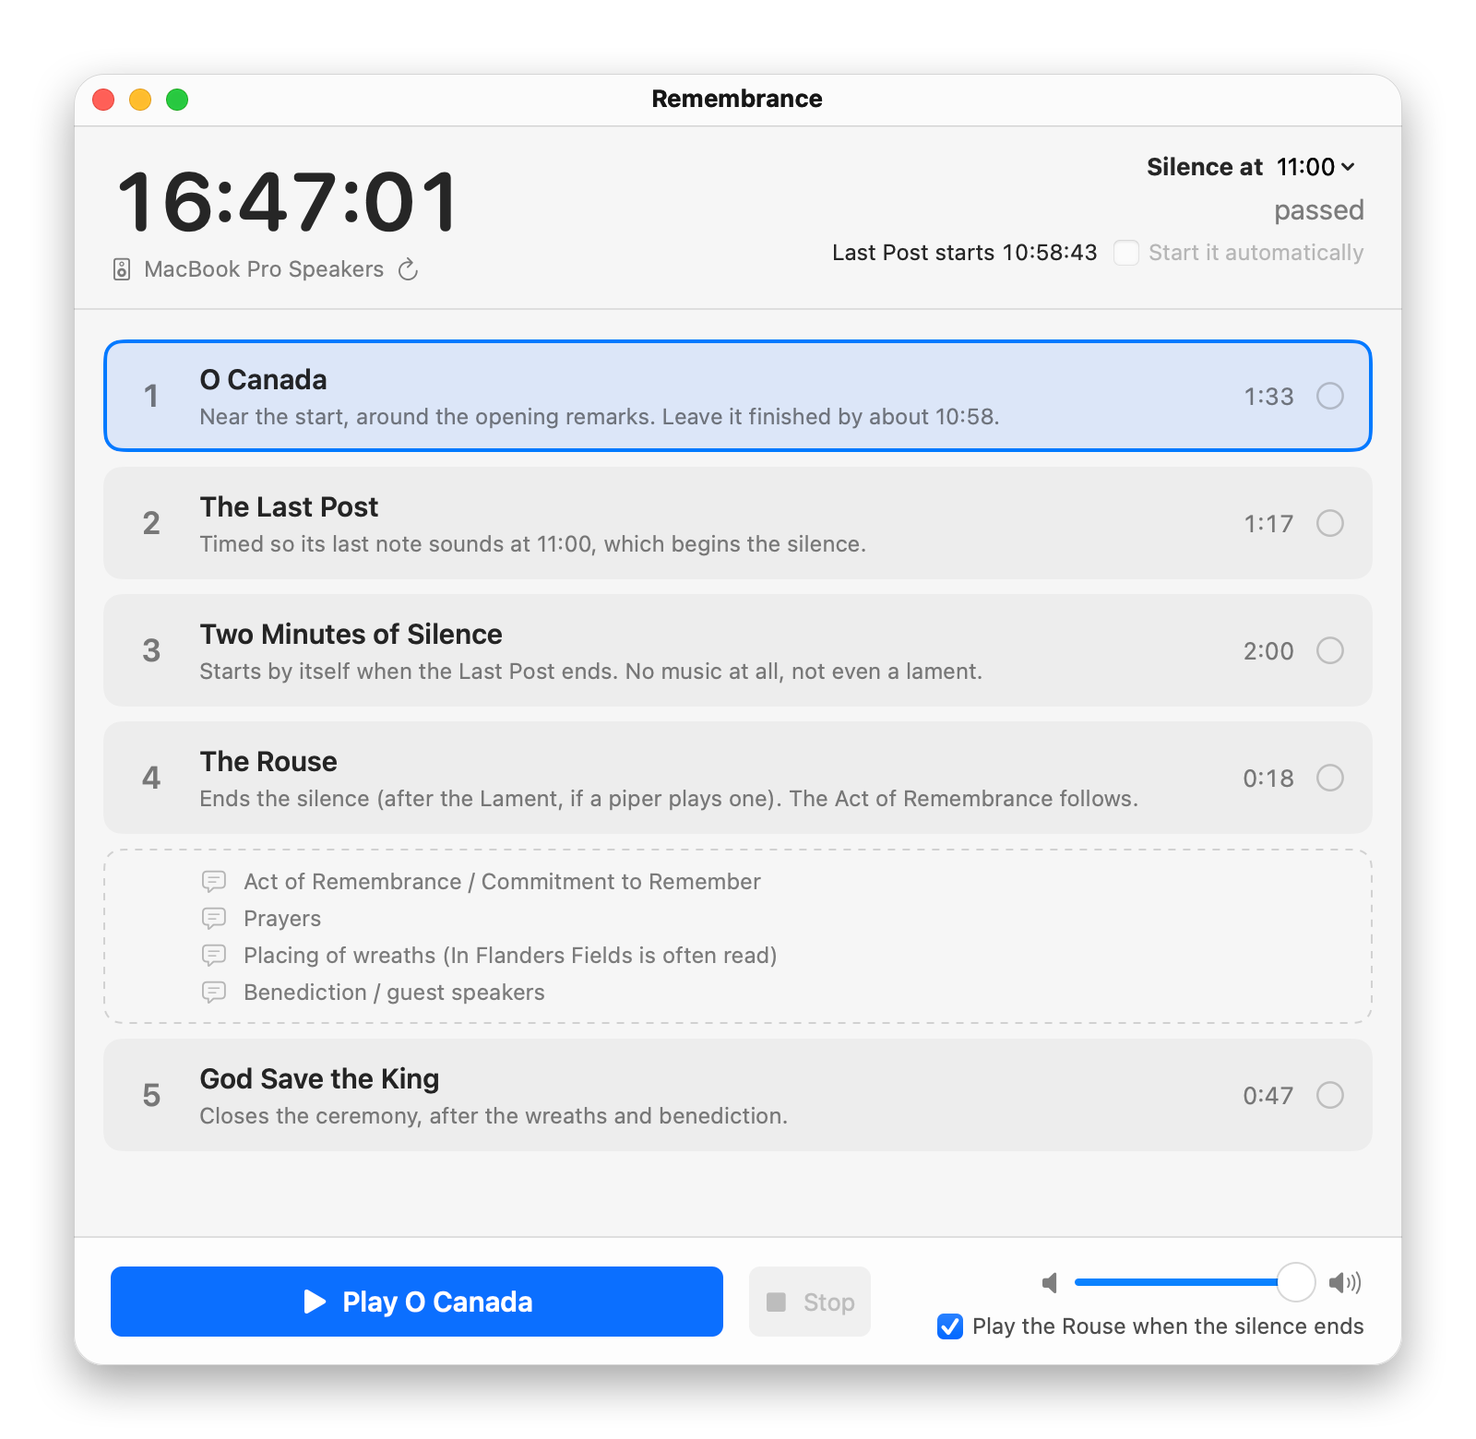
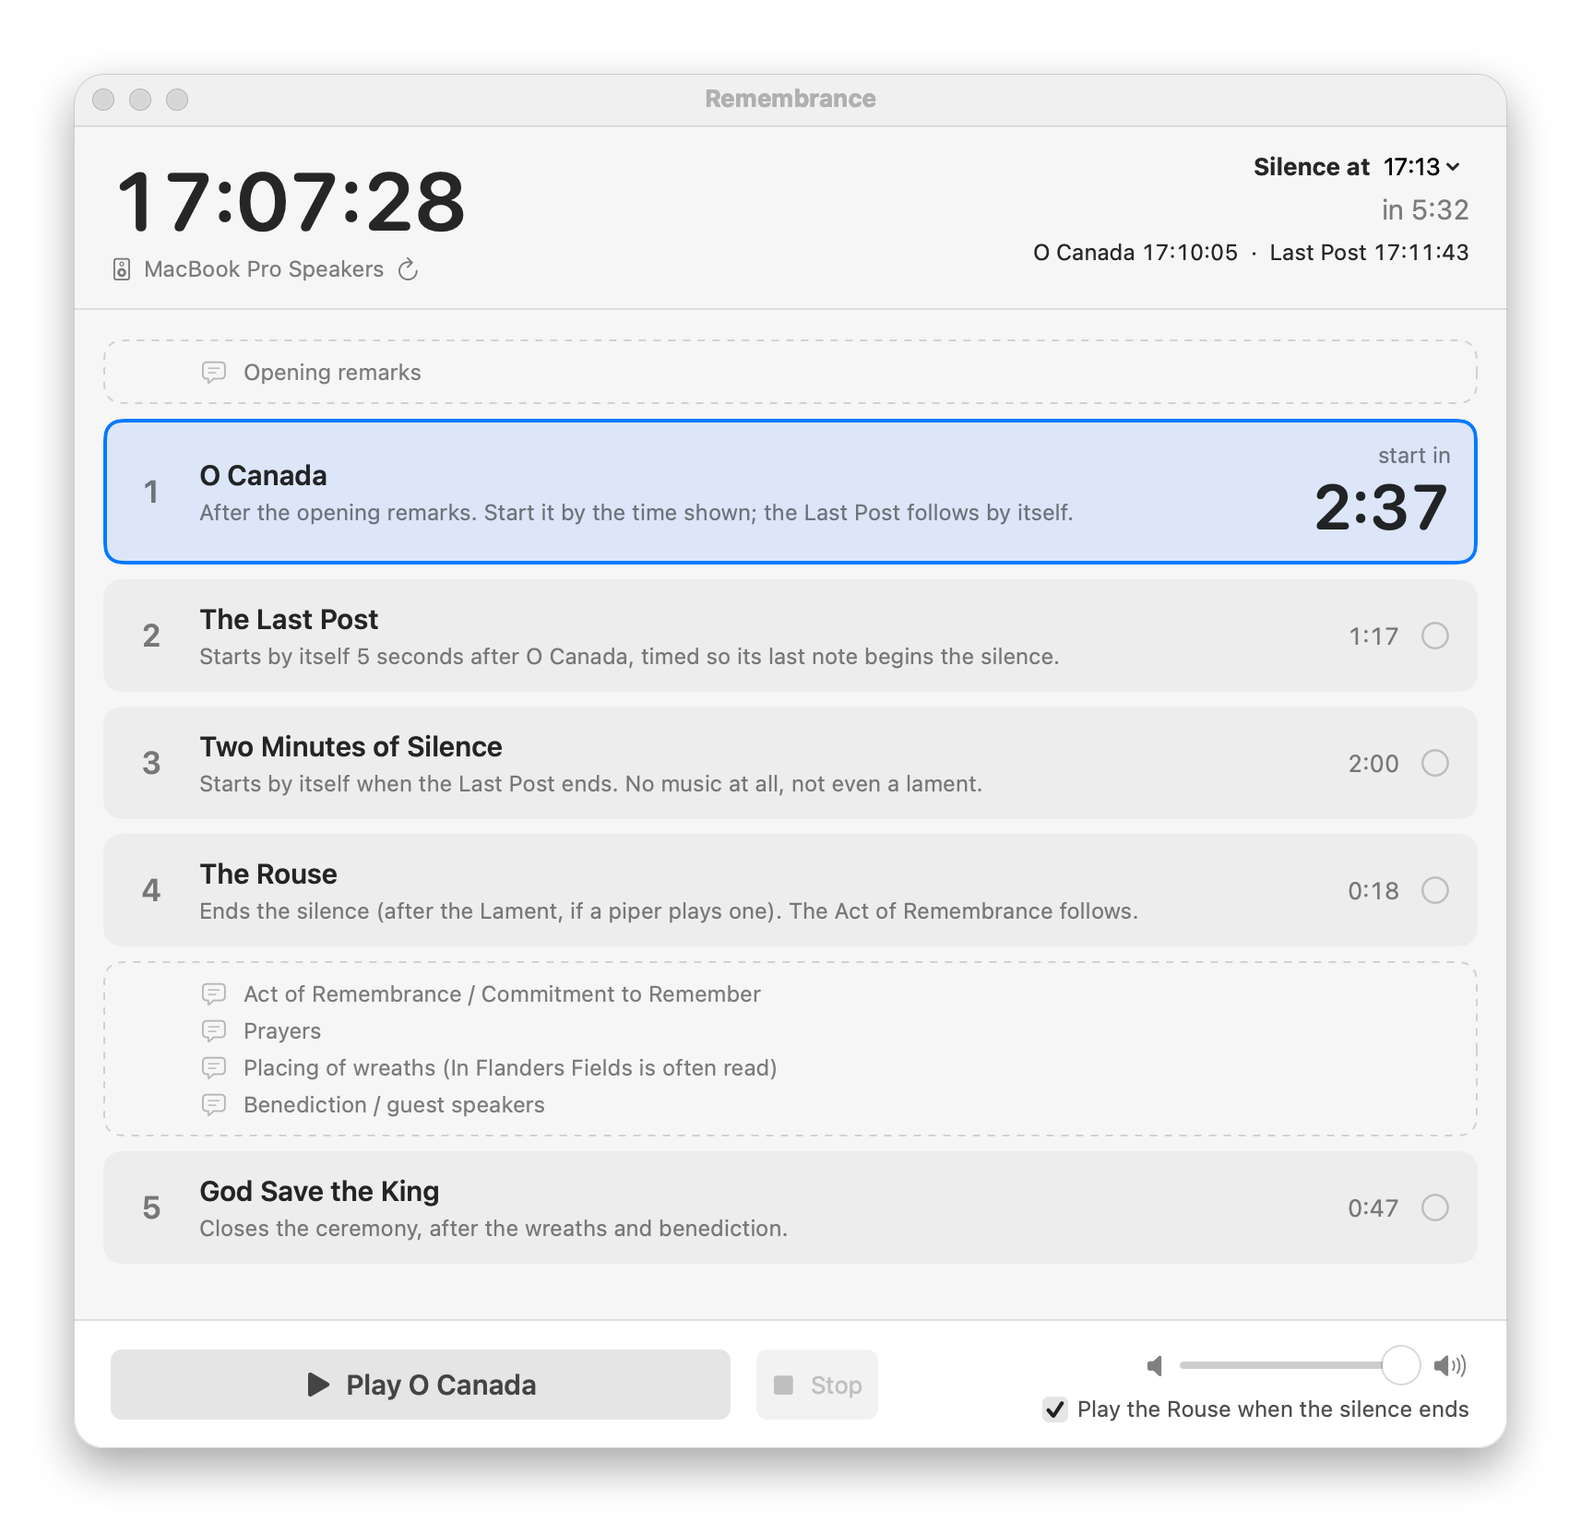
Count down to O Canada; Last Post follows it by itself
O Canada shows a countdown to the latest it can start. When it ends, the
Last Post starts 5 seconds later, or at its scheduled time if O Canada
started early, so its last note still sounds at 11:00. Space starts a
waiting Last Post now and Esc cancels it. Replaces the 'Start it
automatically' checkbox. Adds an Opening remarks section before O Canada
and corrects the documented timings for the audible lengths.

diff --git a/Sources/Remembrance/ServiceController.swift b/Sources/Remembrance/ServiceController.swift
@@ -3,14 +3,20 @@ import AppKit
 import Combine
 import Foundation
 
-/// Runs the service: plays cues, times the silence, and can start the Last Post by itself so that
-/// it ends exactly at the target time (11:00 by default).
+/// Runs the service: plays cues and times the silence. After O Canada the Last Post follows by
+/// itself, at least `gap` seconds later and timed to end exactly at the target time (11:00).
 @MainActor
 final class ServiceController: ObservableObject {
     let cues = Cue.service
+    /// Pause between O Canada ending and the Last Post starting.
+    static let gap: TimeInterval = 5
+
+    /// A cue that will start by itself at `at` (the Last Post after O Canada).
+    struct Pending: Equatable { let index: Int; let at: Date }
 
     @Published var selected = 0
     @Published private(set) var playing: Int?          // index of the cue sounding / counting now
+    @Published private(set) var pending: Pending?
     @Published private(set) var elapsed: TimeInterval = 0
     @Published private(set) var done: Set<String> = []
     @Published private(set) var now = Date()
@@ -25,8 +31,6 @@ final class ServiceController: ObservableObject {
             if let p = currentPlayer, !fading { p.volume = Float(volume) }
         }
     }
-    /// Start the Last Post automatically so that it ends at `targetTime`.
-    @Published var armed = false
     /// Sound the Rouse as soon as the silence ends (off: the operator presses Play).
     @Published var autoRouse = UserDefaults.standard.bool(forKey: "autoRouse") {
         didSet { UserDefaults.standard.set(autoRouse, forKey: "autoRouse") }
@@ -113,6 +117,14 @@ final class ServiceController: ObservableObject {
         durations[lastPost.id].map { targetDate.addingTimeInterval(-$0) }
     }
 
+    var oCanada: Cue { cues.first { $0.id == "o-canada" }! }
+
+    /// The latest O Canada can start for the Last Post to follow after the gap and end on time.
+    var oCanadaStart: Date? {
+        guard let lp = lastPostStart, let d = durations[oCanada.id] else { return nil }
+        return lp.addingTimeInterval(-Self.gap - d)
+    }
+
     var silenceDuration: TimeInterval {
         if case .silence(let s) = silenceCue.kind { return s }
         return 120
@@ -130,19 +142,22 @@ final class ServiceController: ObservableObject {
 
     // MARK: Transport
 
-    var isBusy: Bool { playing != nil }
+    /// Something is sounding, counting, or about to start by itself.
+    var isBusy: Bool { playing != nil || pending != nil }
 
-    /// Plays the selected cue. Does nothing while another cue is sounding, so a double press
-    /// can never start something over the top.
+    /// Plays the selected cue, or starts a waiting cue now. Does nothing while a cue is sounding,
+    /// so a double press can never start something over the top.
     func go() {
+        if let p = pending { start(p.index); return }
         guard !isBusy, cues.indices.contains(selected) else { return }
         start(selected)
     }
 
-    /// `offset` skips into the recording (used when the timed Last Post fires a little late,
-    /// so it still ends on time).
+    /// `offset` skips into the recording (used when the timer fires a little late, so the
+    /// Last Post still ends on time).
     func start(_ index: Int, offset: TimeInterval = 0) {
-        guard !isBusy else { return }
+        guard playing == nil else { return }
+        pending = nil
         let cue = cues[index]
         selected = index
         switch cue.kind {
@@ -159,11 +174,12 @@ final class ServiceController: ObservableObject {
             elapsed = p.currentTime
             p.play()
         }
-        if cue.id == lastPost.id { armed = false }
     }
 
     /// Fades the current recording out over `seconds` (0 = cut), or ends the silence early.
+    /// Also cancels a cue waiting to start by itself.
     func stop(fade seconds: TimeInterval = 1.5) {
+        if pending != nil, playing == nil { pending = nil; return }
         guard let index = playing else { return }
         if cues[index].isAudio, let p = currentPlayer {
             if seconds > 0, p.isPlaying, !fading {
@@ -201,8 +217,12 @@ final class ServiceController: ObservableObject {
         let next = index + 1
         if advance, cues.indices.contains(next) {
             selected = next
-            // The Last Post's final note begins the silence.
-            if cue.id == lastPost.id, cues[next].id == silenceCue.id {
+            // The Last Post follows O Canada after the gap, or at its scheduled time if that's
+            // later, so its last note still sounds at the target time.
+            if cue.id == oCanada.id, cues[next].id == lastPost.id {
+                let soonest = Date().addingTimeInterval(Self.gap)
+                pending = Pending(index: next, at: max(soonest, lastPostStart ?? soonest))
+            } else if cue.id == lastPost.id, cues[next].id == silenceCue.id {
                 start(next)
             } else if cue.id == silenceCue.id, cues[next].id == "rouse", autoRouse {
                 start(next)
@@ -213,10 +233,10 @@ final class ServiceController: ObservableObject {
     }
 
     func reset() {
+        pending = nil
         if isBusy { stop(fade: 0) }
         done = []
         selected = 0
-        armed = false
     }
 
     func select(_ delta: Int) {
@@ -235,15 +255,10 @@ final class ServiceController: ObservableObject {
                 elapsed = silenceDuration - remaining
                 if remaining <= 0 { finish(index, advance: true) }
             }
-        } else if armed, let due = lastPostStart, date >= due {
-            // Fire up to 10 s late, skipping in by the delay so the last note still lands on time;
-            // any later and it waits for the operator.
-            let late = date.timeIntervalSince(due)
-            if late < 10, let i = cues.firstIndex(of: lastPost) {
-                start(i, offset: late > 0.25 ? late : 0)
-            } else {
-                armed = false
-            }
+        } else if let p = pending, date >= p.at {
+            // If the timer fires late (it shouldn't), skip in by the delay to keep the end on time.
+            let late = date.timeIntervalSince(p.at)
+            start(p.index, offset: late > 0.25 && late < 10 ? late : 0)
         }
     }
 

diff --git a/Sources/Remembrance/ContentView.swift b/Sources/Remembrance/ContentView.swift
@@ -13,8 +13,9 @@ struct ContentView: View {
             ScrollView {
                 VStack(spacing: 8) {
                     ForEach(Array(service.cues.enumerated()), id: \.element.id) { index, cue in
+                        if cue.id == "o-canada" { SpokenSection(items: SpokenSection.opening) }
                         CueRow(index: index, cue: cue)
-                        if cue.id == "rouse" { SpokenSection() }
+                        if cue.id == "rouse" { SpokenSection(items: SpokenSection.afterRouse) }
                     }
                 }
                 .padding(16)
@@ -58,20 +59,15 @@ private struct Header: View {
                 Text(countdown)
                     .font(.title3.monospacedDigit())
                     .foregroundStyle(.secondary)
-                if let start = service.lastPostStart {
-                    HStack(spacing: 8) {
-                        Text("Last Post starts \(start.formatted(.dateTime.hour().minute().second()))")
-                            .monospacedDigit()
-                        Toggle("Start it automatically", isOn: $service.armed)
-                            .toggleStyle(.checkbox)
-                            .disabled(start < service.now || service.isBusy)
-                            .help("Plays the Last Post at exactly this time so its last note sounds at the silence.")
-                    }
-                    .font(.callout)
+                if let oc = service.oCanadaStart, let lp = service.lastPostStart {
+                    Text("O Canada \(time(oc))  ·  Last Post \(time(lp))")
+                        .font(.callout.monospacedDigit())
                 }
             }
         }
     }
+
+    private func time(_ d: Date) -> String { d.formatted(.dateTime.hour().minute().second()) }
 
     private var countdown: String {
         let diff = service.targetDate.timeIntervalSince(service.now)
@@ -144,8 +140,27 @@ private struct CueRow: View {
         .contextMenu { if cue.isAudio { fileMenu } }
     }
 
+    var pendingHere: Bool { service.pending?.index == index && service.playing == nil }
+
     @ViewBuilder private var trailing: some View {
-        if isActive, case .silence = cue.kind, let remaining = service.silenceRemaining {
+        if pendingHere, let at = service.pending?.at {
+            VStack(alignment: .trailing, spacing: 0) {
+                Text("starts in").font(.callout).foregroundStyle(.secondary)
+                Text(clock(max(0, at.timeIntervalSince(service.now))))
+                    .font(.system(size: 34, weight: .semibold, design: .rounded).monospacedDigit())
+            }
+        } else if cue.id == "o-canada", !isActive, !isDone, let start = service.oCanadaStart,
+                  start.timeIntervalSince(service.now) > -60 {
+            // Countdown to the latest moment O Canada can start (shown until a minute past it).
+            let diff = start.timeIntervalSince(service.now)
+            VStack(alignment: .trailing, spacing: 0) {
+                Text(diff > 0 ? "start in" : "start now").font(.callout)
+                    .foregroundStyle(diff > 0 ? Color.secondary : Color.orange)
+                Text(diff > 0 ? clock(diff) : "−" + clock(-diff))
+                    .font(.system(size: 34, weight: .semibold, design: .rounded).monospacedDigit())
+                    .foregroundStyle(diff > 0 ? (diff <= 30 ? Color.orange : Color.primary) : Color.orange)
+            }
+        } else if isActive, case .silence = cue.kind, let remaining = service.silenceRemaining {
             Text(clock(remaining))
                 .font(.system(size: 34, weight: .semibold, design: .rounded).monospacedDigit())
         } else if isActive, let total = service.duration(of: cue) {
@@ -194,16 +209,19 @@ private struct CueRow: View {
 // MARK: - Spoken part of the service (not a cue: shown for orientation, never selected)
 
 private struct SpokenSection: View {
-    static let items = [
+    static let opening = ["Opening remarks"]
+    static let afterRouse = [
         "Act of Remembrance / Commitment to Remember",
         "Prayers",
         "Placing of wreaths (In Flanders Fields is often read)",
         "Benediction / guest speakers",
     ]
 
+    let items: [String]
+
     var body: some View {
         VStack(alignment: .leading, spacing: 5) {
-            ForEach(Self.items, id: \.self) { item in
+            ForEach(items, id: \.self) { item in
                 HStack(alignment: .firstTextBaseline, spacing: 8) {
                     Image(systemName: "text.bubble").font(.callout).foregroundStyle(.tertiary)
                     Text(item).font(.callout).foregroundStyle(.secondary)
@@ -226,7 +244,7 @@ private struct Transport: View {
     var body: some View {
         HStack(spacing: 14) {
             Button(action: service.go) {
-                Label(playTitle, systemImage: service.isBusy ? "waveform" : "play.fill")
+                Label(playTitle, systemImage: service.playing != nil ? "waveform" : "play.fill")
                     .labelStyle(.titleAndIcon)
                     .font(.title3.weight(.semibold))
                     .lineLimit(1)
@@ -234,7 +252,7 @@ private struct Transport: View {
             }
             .buttonStyle(.borderedProminent)
             .controlSize(.large)
-            .disabled(service.isBusy)
+            .disabled(service.playing != nil)
 
             Button { service.stop() } label: {
                 Label(stopTitle, systemImage: "stop.fill")
@@ -267,10 +285,12 @@ private struct Transport: View {
 
     private var playTitle: String {
         if let i = service.playing { return service.cues[i].title }
+        if let p = service.pending { return "Start \(service.cues[p.index].title) Now" }
         return "Play \(service.cues[service.selected].title)"
     }
 
     private var stopTitle: String {
+        if service.playing == nil, service.pending != nil { return "Cancel" }
         if let i = service.playing, !service.cues[i].isAudio { return "End Silence" }
         return "Stop"
     }

diff --git a/Sources/Remembrance/RemembranceApp.swift b/Sources/Remembrance/RemembranceApp.swift
@@ -12,14 +12,14 @@ struct RemembranceApp: App {
                 .environmentObject(service)
                 .onAppear { appDelegate.service = service }
         }
-        .defaultSize(width: 720, height: 700)
+        .defaultSize(width: 720, height: 800)
         .commands {
             CommandGroup(replacing: .newItem) {}
             CommandMenu("Service") {
-                Button("Play Selected") { service.go() }
+                Button(service.pending != nil ? "Start Now" : "Play Selected") { service.go() }
                     .keyboardShortcut(.space, modifiers: [])
-                    .disabled(service.isBusy)
-                Button("Fade Out") { service.stop() }
+                    .disabled(service.playing != nil)
+                Button(service.pending != nil && service.playing == nil ? "Cancel" : "Fade Out") { service.stop() }
                     .keyboardShortcut(.escape, modifiers: [])
                     .disabled(!service.isBusy)
                 Button("Stop at Once") { service.stop(fade: 0) }
@@ -43,8 +43,7 @@ final class AppDelegate: NSObject, NSApplicationDelegate {
 
     func applicationShouldTerminateAfterLastWindowClosed(_ sender: NSApplication) -> Bool { true }
 
-    /// REMEMBRANCE_PLAY=<cue id> starts that cue at launch, REMEMBRANCE_ARM=1 arms the timed
-    /// Last Post (for testing the sequence).
+    /// REMEMBRANCE_PLAY=<cue id> starts that cue at launch (for testing the sequence).
     /// REMEMBRANCE_SNAPSHOT=<prefix> saves the window to <prefix>-<seconds>.png at each of
     /// REMEMBRANCE_SNAPSHOT_AT (default "2") seconds after launch, for checking the layout
     /// without screen-recording permission.
@@ -56,9 +55,6 @@ final class AppDelegate: NSObject, NSApplicationDelegate {
                 guard let s = self?.service, let i = s.cues.firstIndex(where: { $0.id == id }) else { return }
                 s.start(i)
             }
-        }
-        if env["REMEMBRANCE_ARM"] == "1" {   // arm the timed Last Post at launch (testing)
-            DispatchQueue.main.asyncAfter(deadline: .now() + 1) { [weak self] in self?.service?.armed = true }
         }
         guard let prefix = env["REMEMBRANCE_SNAPSHOT"] else { return }
         for t in (env["REMEMBRANCE_SNAPSHOT_AT"] ?? "2").split(separator: ",").compactMap({ Double($0) }) {

diff --git a/Sources/Remembrance/Cue.swift b/Sources/Remembrance/Cue.swift
@@ -19,9 +19,9 @@ struct Cue: Identifiable, Equatable {
     /// the CAF / Veterans Affairs Canada guidance (see docs/ORDER-OF-SERVICE.md).
     static let service: [Cue] = [
         Cue(id: "o-canada", title: "O Canada", kind: .audio(resource: "o-canada.mp3"),
-            note: "Near the start, around the opening remarks. Leave it finished by about 10:58."),
+            note: "After the opening remarks. Start it by the time shown; the Last Post follows by itself."),
         Cue(id: "last-post", title: "The Last Post", kind: .audio(resource: "last-post.wav"),
-            note: "Timed so its last note sounds at 11:00, which begins the silence."),
+            note: "Starts by itself 5 seconds after O Canada, timed so its last note begins the silence."),
         Cue(id: "silence", title: "Two Minutes of Silence", kind: .silence(seconds: 120),
             note: "Starts by itself when the Last Post ends. No music at all, not even a lament."),
         Cue(id: "rouse", title: "The Rouse", kind: .audio(resource: "rouse.wav"),

diff --git a/docs/ORDER-OF-SERVICE.md b/docs/ORDER-OF-SERVICE.md
@@ -9,8 +9,9 @@ silence at 11:00** (VAC: "the _Last Post_ is finished at exactly 11 am, marking 
 the two minutes of silent reflection"). The Last Post, silence and Rouse "take place one after the
 other, without interruption", so the silence runs 11:00–11:02.
 
-With the official CAF recording (1:24), the Last Post starts at **10:58:36**. The app shows this time
-and can start it by itself ("Start it automatically").
+The official CAF Last Post sounds for 1:17 (the file runs 1:24, but the last 7 seconds are quiet room
+echo), so it starts at **10:58:43**. O Canada (1:33 of sound) plus a 5-second pause before it means
+O Canada must start by **10:57:05**. The app counts down to that, then starts the Last Post by itself.
 
 ## Recommended order (Royal Canadian Legion)
 
@@ -18,23 +19,23 @@ and can start it by itself ("Start it automatically").
 |---|------|-------|------|
 | 1 | Land acknowledgment | — | before 11:00 |
 | 2 | Opening remarks | — | |
-| 3 | **O Canada** | 1:36 | e.g. ~10:56, finishing by 10:58:30 |
-| 4 | **Last Post** | 1:24 | **10:58:36 → 11:00:00** |
+| 3 | **O Canada** | 1:33 | start by **10:57:05** |
+| 4 | **Last Post** | 1:17 | **10:58:43 → 11:00:00** (5 s after O Canada) |
 | 5 | **Two minutes of silence** | 2:00 | **11:00:00 → 11:02:00** |
 | 6 | Lament (piper, optional) | — | |
-| 7 | **Rouse** | 0:23 | ~11:02 |
+| 7 | **Rouse** | 0:18 | ~11:02 |
 | 8 | Act of Remembrance / Commitment to Remember | — | |
 | 9 | Prayers | — | |
 | 10 | Placing of wreaths (often with *In Flanders Fields* read) | — | |
 | 11 | Benediction / guest speakers | — | |
-| 12 | **God Save the King** | 0:49 | closes the ceremony |
+| 12 | **God Save the King** | 0:47 | closes the ceremony |
 
 ### Working backwards for a typical 11:00 service
 
 - 10:50  Gathering, parade in place
 - 10:53  Land acknowledgment, opening remarks
-- 10:56  O Canada (ends ~10:57:40, leaving time to settle)
-- 10:58:36  Last Post
+- 10:57:05  O Canada (start by then; earlier is fine)
+- 10:58:43  Last Post (by itself)
 - 11:00  Two minutes of silence
 - 11:02  (Lament) → Rouse
 - 11:03  Act of Remembrance, prayers, wreaths, speakers

diff --git a/README.md b/README.md
@@ -4,19 +4,23 @@ A small macOS app for running the audio at a Canadian Remembrance Day service: *
 Last Post**, **two minutes of silence**, **the Rouse** and **God Save the King**, using the official
 Government of Canada recordings.
 
-<p align="center"><img src="docs/screenshot.png" width="800" alt="Remembrance window"></p>
+<p align="center"><img src="docs/screenshot.png" width="857" alt="Remembrance window"></p>
 
 ## Running the service
 
 - **Space** plays the selected cue. Space does nothing while a cue is sounding, so a double press
   can't restart anything.
 - **Esc** fades out over 1.5 s; **Shift-Esc** stops at once. **↑/↓** move the selection.
+- **O Canada** shows a countdown to the latest it can start (10:57:05 for an 11:00 silence). Press
+  Space when the opening remarks finish, at or before that time.
+- **The Last Post follows by itself**, 5 seconds after O Canada ends, or later if O Canada started
+  early: it waits for its scheduled start (10:58:43) so its last note sounds at 11:00. While it
+  waits, Space starts it now and Esc cancels.
 - When the Last Post ends, **the two-minute silence starts by itself** and counts down. Then the
-  Rouse is selected and waits for you. If no piper plays a Lament, tick "Sound the Rouse when the
+  Rouse is selected and waits for you. If no piper plays a Lament, tick "Play the Rouse when the
   silence ends" to play it automatically.
-- **Last Post timing:** the header shows when the Last Post must start so its last note sounds at
-  11:00 (10:58:36 with the official recording). Tick "Start it automatically" and the app starts
-  it on the second. "Silence at" changes the target time for services that aren't at 11:00.
+- "Silence at" changes the target time for services that aren't at 11:00; every other time moves
+  with it.
 - The header shows the Mac's **sound output** (check it says your PA/speaker, not "MacBook Pro
   Speakers"). The Mac won't sleep or dim while the app is open, and it asks before quitting
   mid-cue.
